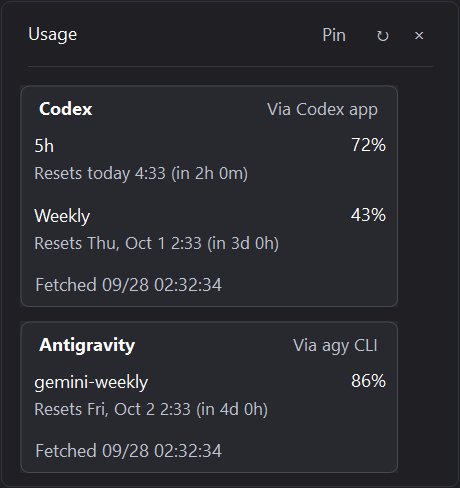
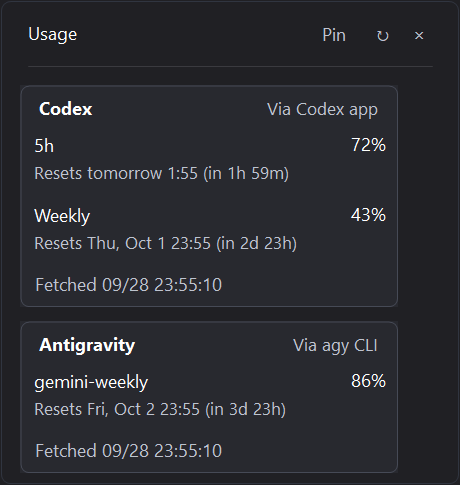
Fold services not on the taskbar and fix details scrolling
- Services outside the taskbar rows start as a one-line summary in the
  details popup; clicking the header opens or folds them, and the choice
  is saved. The popup height now follows what the cards show.
- Rebuilding the list while scrolled placed cards relative to the scroll
  offset, leaving blank space to scroll into. Lay out from the top and
  restore the offset, and start at the top whenever the popup reopens.

diff --git a/DetailsForm.cs b/DetailsForm.cs
@@ -7,6 +7,7 @@ internal sealed class DetailsForm : Form
 {
     private readonly Preferences prefs;
     private string? rowsKey;
+    private int contentHeight;
     private readonly System.Windows.Forms.Timer clock = new() { Interval = 1000 };
     private readonly System.Windows.Forms.Timer fade = new() { Interval = 15 };
     private const int FadeDurationMs = 160;
@@ -114,7 +115,7 @@ internal sealed class DetailsForm : Form
     internal void UpdateReadings(Reading c, Reading a, Reading? cl, Reading? gr, bool busy)
     {
         codex = c; agy = a; claude = cl; grok = gr; refreshing = busy;
-        if (expanded) RebuildRows();
+        if (expanded) Expand(true, false);
         Invalidate();
     }
     internal void Reveal(bool nearTray = false, bool fromHover = false)
@@ -122,6 +123,8 @@ internal sealed class DetailsForm : Form
         openedFromHover = fromHover;
         PositionAtTray();
         Expand(true, false); PositionAtTray();
+        // A fresh open starts at the top; re-revealing a popup that is still fading out keeps its scroll.
+        if (!Visible) list.AutoScrollPosition = Point.Empty;
         if (!Visible) { Opacity = 0; Show(); }
         Activate();
         FadeTo(1);
@@ -161,12 +164,10 @@ internal sealed class DetailsForm : Form
     internal void Expand(bool value, bool animate = true)
     {
         expanded = value;
-        int missing = (codex.Quotas.Count == 0 ? 1 : 0) + (agy.Quotas.Count == 0 ? 1 : 0) + (claude != null && claude.Quotas.Count == 0 ? 1 : 0) + (grok != null && grok.Quotas.Count == 0 ? 1 : 0);
-        int count = codex.Quotas.Count + agy.Quotas.Count + (claude?.Quotas.Count ?? 0) + (grok?.Quotas.Count ?? 0);
-        int expandedHeight = Math.Min(Screen.FromRectangle(Bounds).WorkingArea.Height - 24,
-            Math.Clamp(278 + 70 * count + 20 * missing + (claude == null ? 0 : 70) + (grok == null ? 0 : 70), 300, 720));
-        target = value ? new Size(460, expandedHeight) : new Size(344, 54);
         if (value) RebuildRows();
+        // Fit the popup to what the cards actually show (collapsed cards are one line).
+        int expandedHeight = Math.Min(Screen.FromRectangle(Bounds).WorkingArea.Height - 24, Math.Clamp(85 + contentHeight + 12, 220, 720));
+        target = value ? new Size(460, expandedHeight) : new Size(344, 54);
         ClientSize = target; ClampPosition();
         LayoutButtons(); Invalidate();
     }
@@ -208,10 +209,12 @@ internal sealed class DetailsForm : Form
     private void RebuildRows()
     {
         // Feed polling and refresh status can repeat unchanged readings.
-        var key = System.Text.Json.JsonSerializer.Serialize(new { codex, agy, claude, grok, localDate = DateTime.Today, cStale = codex.Stale, aStale = agy.Stale, clStale = claude?.Stale, grStale = grok?.Stale, top = prefs.TaskbarTop, bottom = prefs.TaskbarBottom });
+        var key = System.Text.Json.JsonSerializer.Serialize(new { codex, agy, claude, grok, localDate = DateTime.Today, cStale = codex.Stale, aStale = agy.Stale, clStale = claude?.Stale, grStale = grok?.Stale, top = prefs.TaskbarTop, bottom = prefs.TaskbarBottom, open = string.Join(",", prefs.ExpandedProviders), order = ClockTextRenderer.FiveHourFirst });
         if (key == rowsKey) return;
         rowsKey = key;
         var scroll = list.AutoScrollPosition;
+        // Child locations are relative to the current scroll offset; lay out from the top or each rebuild adds blank space below.
+        list.AutoScrollPosition = Point.Empty;
         list.SuspendLayout();
         foreach (Control c in list.Controls.Cast<Control>().ToArray()) { list.Controls.Remove(c); c.Dispose(); }
         int y = 0;
@@ -222,9 +225,31 @@ internal sealed class DetailsForm : Form
             list.Controls.Add(card);
             var color = reading.Provider == "Codex" ? Mint : Violet;
             int cy = 10;
-            AddLabel(card, reading.Provider, new Rectangle(14, cy, 170, 25), color, 12, FontStyle.Bold);
-            string status = reading.Updated == null ? L.T("未接続") : reading.Stale ? L.T("前回の値") : reading.Source ?? L.T("取得元不明");
-            AddLabel(card, status, new Rectangle(186, cy + 2, 178, 28), Muted, 11, align: ContentAlignment.TopRight);
+            // Services not shown in the taskbar can be folded to a one-line summary by clicking their header.
+            bool foldable = reading.Provider != prefs.TaskbarTop && reading.Provider != prefs.TaskbarBottom;
+            bool folded = foldable && !prefs.ExpandedProviders.Contains(reading.Provider);
+            var title = AddLabel(card, (foldable ? (folded ? "▸ " : "▾ ") : "") + reading.Provider, new Rectangle(14, cy, 170, 25), color, 12, FontStyle.Bold);
+            string status = folded ? ClockTextRenderer.TaskbarValue(reading)
+                : reading.Updated == null ? L.T("未接続") : reading.Stale ? L.T("前回の値") : reading.Source ?? L.T("取得元不明");
+            var statusLabel = AddLabel(card, status, new Rectangle(186, cy + 2, 178, 28), folded && !reading.Stale ? Color.White : Muted, folded ? 12 : 11, align: ContentAlignment.TopRight);
+            if (foldable)
+            {
+                var provider = reading.Provider;
+                void Toggle(object? _, EventArgs __)
+                {
+                    if (!prefs.ExpandedProviders.Remove(provider)) prefs.ExpandedProviders.Add(provider);
+                    prefs.Save();
+                    // Rebuilding disposes the clicked label, so do it after this click handler returns.
+                    BeginInvoke(() => { Expand(true, false); PositionAtTray(); });
+                }
+                foreach (Control c in new Control[] { card, title, statusLabel }) { c.Cursor = Cursors.Hand; c.Click += Toggle; }
+            }
+            if (folded)
+            {
+                card.Height = cy + 36;
+                y += card.Height + 14;
+                continue;
+            }
             cy += 36;
             if (reading.Quotas.Count == 0)
             {
@@ -245,16 +270,19 @@ internal sealed class DetailsForm : Form
             card.Height = cy + 6;
             y += card.Height + 14;
         }
-        list.AutoScrollMinSize = new Size(0, Math.Max(0, y - 14));
+        contentHeight = Math.Max(0, y - 14);
+        list.AutoScrollMinSize = new Size(0, contentHeight);
         list.ResumeLayout(); list.AutoScrollPosition = new Point(-scroll.X, -scroll.Y);
     }
     // Providers shown in the taskbar come first (top row, then bottom row); the rest keep their default order.
     internal static IEnumerable<Reading> OrderedReadings(Preferences display, params Reading?[] readings) =>
         readings.Where(r => r != null).Cast<Reading>()
             .OrderBy(r => r.Provider == display.TaskbarTop ? 0 : r.Provider == display.TaskbarBottom ? 1 : 2);
-    private void AddLabel(Control parent, string text, Rectangle bounds, Color color, float size, FontStyle style = FontStyle.Regular, bool ellipsis = true, ContentAlignment align = ContentAlignment.TopLeft)
+    private Label AddLabel(Control parent, string text, Rectangle bounds, Color color, float size, FontStyle style = FontStyle.Regular, bool ellipsis = true, ContentAlignment align = ContentAlignment.TopLeft)
     {
-        parent.Controls.Add(new Label { Text = L.T(text), Bounds = bounds, ForeColor = color, Font = new Font("Segoe UI", size * DeviceDpi / 96f, style, GraphicsUnit.Pixel), AutoEllipsis = ellipsis, TextAlign = align });
+        var label = new Label { Text = L.T(text), Bounds = bounds, ForeColor = color, Font = new Font("Segoe UI", size * DeviceDpi / 96f, style, GraphicsUnit.Pixel), AutoEllipsis = ellipsis, TextAlign = align };
+        parent.Controls.Add(label);
+        return label;
     }
     protected override void OnPaint(PaintEventArgs e)
     {

diff --git a/GrokUsage.cs b/GrokUsage.cs
@@ -39,7 +39,7 @@ internal static class GrokUsage
         var stderr = proc.StandardError.ReadToEndAsync();
         try
         {
-            await proc.StandardInput.WriteLineAsync("""{"jsonrpc":"2.0","id":1,"method":"initialize","params":{"protocolVersion":1,"clientCapabilities":{},"clientInfo":{"name":"CodexLimitViewer","version":"0.1.12"}}}""");
+            await proc.StandardInput.WriteLineAsync("""{"jsonrpc":"2.0","id":1,"method":"initialize","params":{"protocolVersion":1,"clientCapabilities":{},"clientInfo":{"name":"CodexLimitViewer","version":"0.1.13"}}}""");
             await proc.StandardInput.WriteLineAsync("""{"jsonrpc":"2.0","id":2,"method":"_x.ai/billing","params":{}}""");
             await proc.StandardInput.FlushAsync(timeout.Token);
             while (true)

diff --git a/Providers.cs b/Providers.cs
@@ -25,7 +25,7 @@ internal static class Providers
         var errors = proc.StandardError.ReadToEndAsync();
         try
         {
-            await proc.StandardInput.WriteLineAsync("""{"id":1,"method":"initialize","params":{"clientInfo":{"name":"codex-limit-viewer","version":"0.1.12"}}}""");
+            await proc.StandardInput.WriteLineAsync("""{"id":1,"method":"initialize","params":{"clientInfo":{"name":"codex-limit-viewer","version":"0.1.13"}}}""");
             await ReadResult(proc, 1, ct);
             await proc.StandardInput.WriteLineAsync("""{"method":"initialized","params":{}}""");
             await proc.StandardInput.WriteLineAsync("""{"id":2,"method":"account/rateLimits/read"}""");

diff --git a/Data.cs b/Data.cs
@@ -17,6 +17,8 @@ internal sealed class Preferences
     public string TaskbarBottom { get; set; } = "Antigravity";
     // true: "5-hour%(weekly%)"; false: "weekly%(5-hour%)".
     public bool FiveHourFirst { get; set; } = true;
+    // Services outside the taskbar rows start collapsed in the details popup; these were opened by the user.
+    public List<string> ExpandedProviders { get; set; } = [];
     public int X { get; set; } = int.MinValue;
     public int Y { get; set; } = 16;
     public static string Folder => Path.Combine(Environment.GetFolderPath(Environment.SpecialFolder.LocalApplicationData), "CodexLimitViewer");

diff --git a/README.en.md b/README.en.md
@@ -12,7 +12,7 @@ A sleek, lightweight Windows 11 system tray application that continuously displa
 
 - **Always Visible**: Glance at your remaining quota percentage (lowest bucket) directly in your Windows 11 notification area without interrupting your work.
 - **Choose Two Rows**: Select Codex, Antigravity, Claude Code, or Grok for the top and bottom rows from the right-click menu. Selecting an item already in the other row automatically swaps them.
-- **Details on Hover**: Off by default. When enabled, hovering displays per-bucket quota, the reset date and time (today, tomorrow, or weekday and date) with the time left, and the last updated timestamp in a smooth fade popup. It fades out as soon as the pointer leaves both the display and popup. When disabled, a centered tooltip shows the app name. The details popup frames each service in its own card and lists the services shown in the taskbar rows first.
+- **Details on Hover**: Off by default. When enabled, hovering displays per-bucket quota, the reset date and time (today, tomorrow, or weekday and date) with the time left, and the last updated timestamp in a smooth fade popup. It fades out as soon as the pointer leaves both the display and popup. When disabled, a centered tooltip shows the app name. The details popup frames each service in its own card and lists the services shown in the taskbar rows first. Services not shown in the taskbar fold into a one-line summary; click the header to open or fold them. Reopening the popup scrolls back to the top.
 - **Multi-Service Integration**: Polls Codex (the desktop app's bundled binary or standalone Codex CLI), Antigravity (`agy`), and the official Grok Build CLI every 60 seconds. Claude quota is fetched every 3 minutes (the last values are kept across restarts) using your [Claude Code CLI](https://code.claude.com/docs/en/setup) sign-in. The app never stores or transmits credentials, except for sending the Claude sign-in token to Anthropic and renewing the CLI sign-in when it expires.
 - **Grok Weekly Quota**: Displays the remaining weekly quota percentage and reset time from the official Grok Build CLI (`grok.exe`) in the details popup. Choose Grok for either taskbar row in the right-click menu.
 - **Graceful Error Handling**: If a fetch fails, previous values remain visible in gray text rather than disappearing.
@@ -89,4 +89,4 @@ dotnet publish -c Release --self-contained true -p:PublishSingleFile=true -o dis
 - Unsigned pre-release software tested on Windows 11 at 150% DPI. Mixed-DPI configurations and reboot startup behavior are unverified.
 - License: [MIT License](LICENSE)
 - Codex with GPT-6 Sol (reasoning effort: Medium) was used for development. The Japanese and English publication text was proofread with Gemini 3.8 Flash (High) (reasoning effort: High).
-- Claude Code with Claude Opus 5.5 (reasoning effort: Medium) was used for the v0.1.3–v0.1.12 Claude integration fixes, automatic quota fetching, details ordering and reset-time display, the app icon, and release work.
+- Claude Code with Claude Opus 5.5 (reasoning effort: Medium) was used for the v0.1.3–v0.1.13 Claude integration fixes, automatic quota fetching, details ordering and reset-time display, the app icon, and release work.
